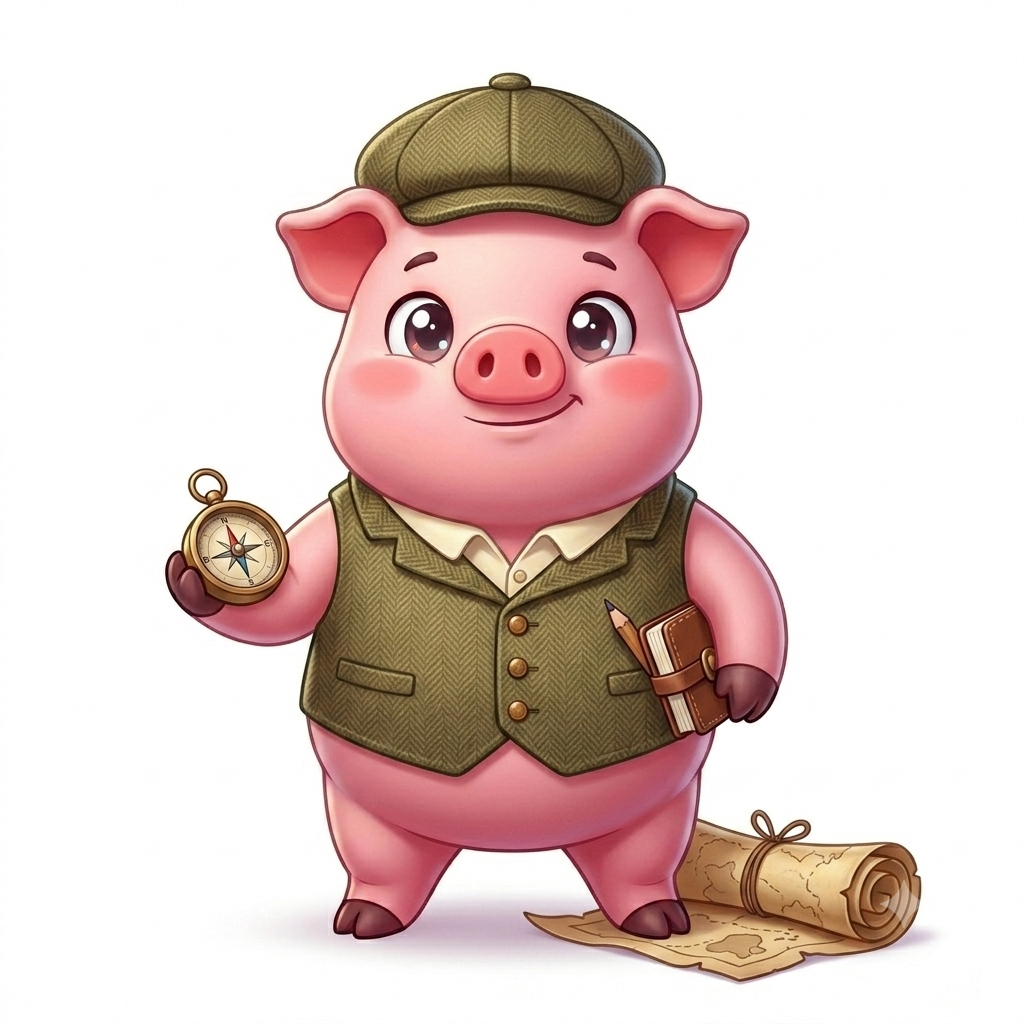
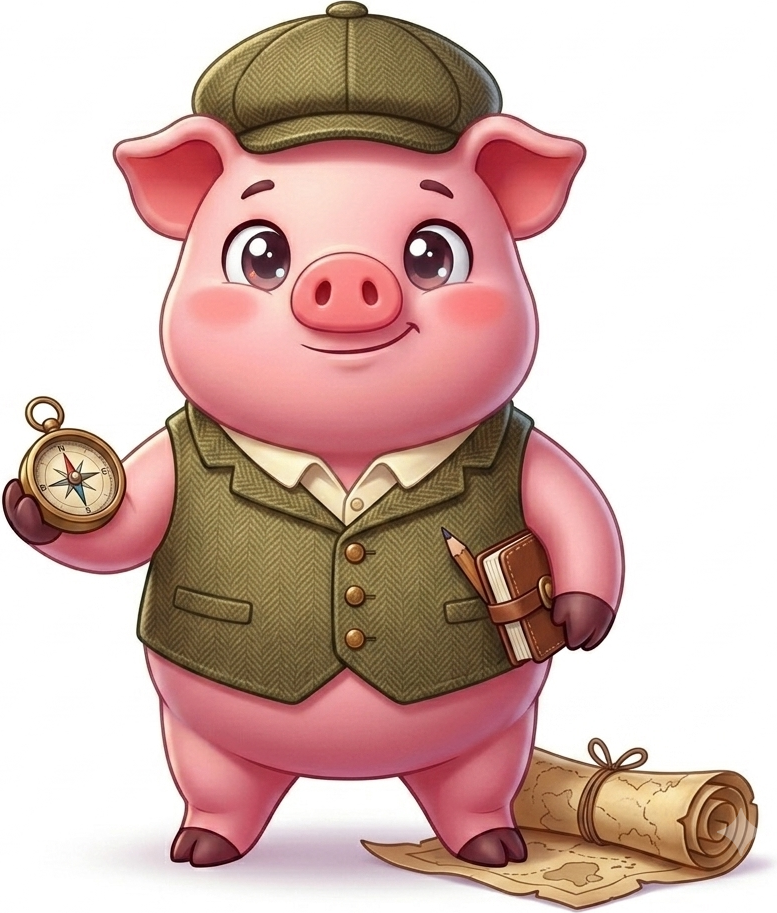
Ajustes de consistencia visual: tamaños de chanchos, planetas, brillo y fondos nuevos
- Recorta pig_economia y pig_historia para que los 4 chanchos de la home tengan el mismo tamaño aparente.
- Planetas del hero: saca la animación de flotar (solo queda el giro al pasar el mouse) y los acerca más al centro.
- Aumenta el brillo del fondo del hero del blog.
- Unifica la altura (en vez de ancho) de los 7 personajes que asoman en las tarjetas del blog, para que se vean del mismo tamaño entre sí.
- Saca la animación de flotar de los personajes en el header de los 8 artículos (quedan quietos).
- Recentra el fondo de Mitos para que se vea al detective, tanto en la tarjeta como en el artículo.
- Nuevos fondos para los artículos de Cripto, Ahorro (fondo de emergencia) y Crisis (burbujas y crashes).

diff --git a/docs/blog/index.html b/docs/blog/index.html
@@ -43,7 +43,7 @@
   <div style="display:flex;justify-content:center;padding:72px 40px 40px;">
     <div style="position:relative;width:100%;max-width:1160px;">
       <div class="obol-card" style="position:relative;border-radius:32px;overflow:hidden;min-height:380px;background:#16213e;box-shadow:0 30px 60px -20px rgba(10,15,30,.5);">
-        <div style="position:absolute;inset:0;background-image:url('./assets/bg_blog_hero.jpg');background-size:cover;background-position:center 40%;opacity:.55;"></div>
+        <div style="position:absolute;inset:0;background-image:url('./assets/bg_blog_hero.jpg');background-size:cover;background-position:center 40%;opacity:.8;"></div>
         <div style="position:absolute;inset:0;background:linear-gradient(100deg,rgba(16,25,50,.94) 0%,rgba(16,25,50,.86) 46%,rgba(16,25,50,.55) 68%,rgba(16,25,50,.2) 100%);"></div>
         <div style="position:relative;padding:56px 60px;max-width:600px;display:flex;flex-direction:column;gap:20px;">
           <span style="display:inline-flex;align-items:center;align-self:flex-start;font-family:'Fredoka',sans-serif;font-weight:600;font-size:12px;letter-spacing:.14em;color:#fff;background:rgba(255,255,255,.14);border:1px solid rgba(255,255,255,.24);padding:7px 16px;border-radius:999px;text-transform:uppercase;">Blog de finanzas y economía</span>
@@ -99,12 +99,12 @@
               <span style="font-weight:700;font-size:12px;color:rgba(255,255,255,.68);">Por El Griego</span>
             </div>
           </div>
-          <img src="./assets/char-griego.png" alt="El Griego" style="position:absolute;right:-10px;bottom:-14px;width:158px;height:auto;pointer-events:none;filter:drop-shadow(0 14px 16px rgba(15,8,4,.4));z-index:3;">
+          <img src="./assets/char-griego.png" alt="El Griego" style="position:absolute;right:-10px;bottom:-14px;height:210px;width:auto;pointer-events:none;filter:drop-shadow(0 14px 16px rgba(15,8,4,.4));z-index:3;">
         </a>
 
         <a href="./articulos/mitos-que-cuestan-caro.html" style="display:block;position:relative;">
           <div class="obol-card" style="position:relative;border-radius:24px;overflow:hidden;height:250px;background:#2c1e3f;box-shadow:0 18px 36px -16px rgba(44,30,63,.5);">
-            <div style="position:absolute;inset:0;background-image:url('./assets/bg_mitos_hero.jpg');background-size:cover;background-position:center 45%;"></div>
+            <div style="position:absolute;inset:0;background-image:url('./assets/bg_mitos_hero.jpg');background-size:cover;background-position:22% 55%;"></div>
             <div style="position:absolute;inset:0;background:linear-gradient(100deg,rgba(44,30,63,.88) 0%,rgba(44,30,63,.6) 48%,rgba(44,30,63,.18) 72%,rgba(44,30,63,0) 100%);"></div>
             <div style="position:relative;padding:28px 30px;max-width:66%;height:100%;display:flex;flex-direction:column;justify-content:center;gap:10px;">
               <span style="display:inline-flex;align-self:flex-start;font-family:'Fredoka',sans-serif;font-weight:600;font-size:11px;letter-spacing:.1em;color:#fff;background:rgba(255,255,255,.16);border:1px solid rgba(255,255,255,.26);padding:5px 12px;border-radius:999px;text-transform:uppercase;">Mitos</span>
@@ -112,7 +112,7 @@
               <span style="font-weight:700;font-size:12px;color:rgba(255,255,255,.68);">Por el Cazador de Mitos</span>
             </div>
           </div>
-          <img src="./assets/char-mito.png" alt="Cazador de Mitos" style="position:absolute;right:-10px;bottom:-14px;width:158px;height:auto;pointer-events:none;filter:drop-shadow(0 14px 16px rgba(10,4,16,.4));z-index:3;">
+          <img src="./assets/char-mito.png" alt="Cazador de Mitos" style="position:absolute;right:-10px;bottom:-14px;height:210px;width:auto;pointer-events:none;filter:drop-shadow(0 14px 16px rgba(10,4,16,.4));z-index:3;">
         </a>
 
         <a href="./articulos/acciones-bonos-cedears.html" style="display:block;position:relative;">
@@ -125,7 +125,7 @@
               <span style="font-weight:700;font-size:12px;color:rgba(255,255,255,.68);">Por la Inversora Pro</span>
             </div>
           </div>
-          <img src="./assets/char-inversor-pro.png" alt="Inversora Pro" style="position:absolute;right:-10px;bottom:-14px;width:158px;height:auto;pointer-events:none;filter:drop-shadow(0 14px 16px rgba(4,12,10,.4));z-index:3;">
+          <img src="./assets/char-inversor-pro.png" alt="Inversora Pro" style="position:absolute;right:-10px;bottom:-14px;height:210px;width:auto;pointer-events:none;filter:drop-shadow(0 14px 16px rgba(4,12,10,.4));z-index:3;">
         </a>
 
         <a href="./articulos/fondo-de-emergencia.html" style="display:block;position:relative;">
@@ -138,7 +138,7 @@
               <span style="font-weight:700;font-size:12px;color:rgba(255,255,255,.68);">Por la Guardiana del Ahorro</span>
             </div>
           </div>
-          <img src="./assets/char-ahorro.png" alt="Guardiana del Ahorro" style="position:absolute;right:-10px;bottom:-14px;width:158px;height:auto;pointer-events:none;filter:drop-shadow(0 14px 16px rgba(6,14,10,.4));z-index:3;">
+          <img src="./assets/char-ahorro.png" alt="Guardiana del Ahorro" style="position:absolute;right:-10px;bottom:-14px;height:210px;width:auto;pointer-events:none;filter:drop-shadow(0 14px 16px rgba(6,14,10,.4));z-index:3;">
         </a>
 
         <a href="./articulos/burbujas-crashes-panicos.html" style="display:block;position:relative;">
@@ -151,7 +151,7 @@
               <span style="font-weight:700;font-size:12px;color:rgba(255,255,255,.68);">Por el Domador de Tormentas</span>
             </div>
           </div>
-          <img src="./assets/char-domador.png" alt="Domador de Tormentas" style="position:absolute;right:-10px;bottom:-14px;width:158px;height:auto;pointer-events:none;filter:drop-shadow(0 14px 16px rgba(14,6,4,.4));z-index:3;">
+          <img src="./assets/char-domador.png" alt="Domador de Tormentas" style="position:absolute;right:-10px;bottom:-14px;height:210px;width:auto;pointer-events:none;filter:drop-shadow(0 14px 16px rgba(14,6,4,.4));z-index:3;">
         </a>
 
         <a href="./articulos/bitcoin-en-criollo.html" style="display:block;position:relative;">
@@ -164,7 +164,7 @@
               <span style="font-weight:700;font-size:12px;color:rgba(255,255,255,.68);">Por el Broker</span>
             </div>
           </div>
-          <img src="./assets/char-broker.png" alt="Broker" style="position:absolute;right:-10px;bottom:-14px;width:158px;height:auto;pointer-events:none;filter:drop-shadow(0 14px 16px rgba(4,10,14,.4));z-index:3;">
+          <img src="./assets/char-broker.png" alt="Broker" style="position:absolute;right:-10px;bottom:-14px;height:210px;width:auto;pointer-events:none;filter:drop-shadow(0 14px 16px rgba(4,10,14,.4));z-index:3;">
         </a>
 
         <a href="./articulos/tarjeta-de-credito-mal-usada.html" style="display:block;position:relative;">
@@ -177,7 +177,7 @@
               <span style="font-weight:700;font-size:12px;color:rgba(255,255,255,.68);">Por el Ciudadano</span>
             </div>
           </div>
-          <img src="./assets/char-ciudadano.png" alt="Ciudadano" style="position:absolute;right:-6px;bottom:-14px;width:150px;height:auto;pointer-events:none;filter:drop-shadow(0 14px 16px rgba(6,8,20,.4));z-index:3;">
+          <img src="./assets/char-ciudadano.png" alt="Ciudadano" style="position:absolute;right:-10px;bottom:-14px;height:210px;width:auto;pointer-events:none;filter:drop-shadow(0 14px 16px rgba(6,8,20,.4));z-index:3;">
         </a>
 
       </div>

diff --git a/docs/aprende.html b/docs/aprende.html
@@ -57,7 +57,7 @@
     75%  { transform: perspective(900px) rotateX(6deg) rotateY(-36deg) scale(.985); }
     100% { transform: perspective(900px) rotateX(4deg) rotateY(0deg) scale(1); }
   }
-  .obol-planet { position: absolute; opacity: 0; z-index: 1; animation: obolFadeIn 1.2s ease .25s forwards, obolFloat 6s ease-in-out 1.4s infinite; }
+  .obol-planet { position: absolute; opacity: 0; z-index: 1; animation: obolFadeIn 1.2s ease .25s forwards; }
   .obol-planet > span { display: block; transition: transform .4s cubic-bezier(.22,.61,.36,1); }
   .obol-planet:hover > span { transform: scale(1.05); }
   .obol-planet img { display: block; width: 100%; height: auto; }
@@ -96,16 +96,16 @@
     <div style="position:absolute;inset:0;background-image:radial-gradient(circle at 82% 18%,rgba(74,124,224,.26),transparent 55%);pointer-events:none;"></div>
     <div style="position:absolute;inset:0;background-image:linear-gradient(rgba(255,255,255,.035) 1px,transparent 1px),linear-gradient(90deg,rgba(255,255,255,.035) 1px,transparent 1px);background-size:44px 44px;-webkit-mask-image:linear-gradient(180deg,rgba(0,0,0,.85),transparent 82%);mask-image:linear-gradient(180deg,rgba(0,0,0,.85),transparent 82%);pointer-events:none;"></div>
 
-    <div class="obol-planet" aria-hidden="true" style="left:4%;top:16%;width:clamp(150px,15vw,225px);">
+    <div class="obol-planet" aria-hidden="true" style="left:9%;top:16%;width:clamp(150px,15vw,225px);">
       <span><img src="./assets/aprende2/planet_ahorro.png" alt="Mundo del ahorro" style="filter:drop-shadow(0 26px 30px rgba(4,10,26,.5)) drop-shadow(0 0 46px rgba(94,196,160,.22));"></span>
     </div>
-    <div class="obol-planet" aria-hidden="true" style="right:4%;top:16%;width:clamp(150px,15vw,225px);animation-delay:.3s;">
+    <div class="obol-planet" aria-hidden="true" style="right:9%;top:16%;width:clamp(150px,15vw,225px);animation-delay:.3s;">
       <span><img src="./assets/aprende2/planet_mercados.png" alt="Mundo de mercados e inversiones" style="filter:drop-shadow(0 26px 30px rgba(4,10,26,.5)) drop-shadow(0 0 48px rgba(150,110,235,.28));"></span>
     </div>
-    <div class="obol-planet" aria-hidden="true" style="left:4%;top:52%;width:clamp(150px,15vw,225px);animation-delay:.55s;">
+    <div class="obol-planet" aria-hidden="true" style="left:9%;top:52%;width:clamp(150px,15vw,225px);animation-delay:.55s;">
       <span><img src="./assets/aprende2/planet_argentina.png" alt="Mundo de la economía argentina" style="filter:drop-shadow(0 26px 30px rgba(4,10,26,.5)) drop-shadow(0 0 44px rgba(120,180,235,.22));"></span>
     </div>
-    <div class="obol-planet" aria-hidden="true" style="right:4%;top:52%;width:clamp(150px,15vw,225px);animation-delay:.15s;">
+    <div class="obol-planet" aria-hidden="true" style="right:9%;top:52%;width:clamp(150px,15vw,225px);animation-delay:.15s;">
       <span><img src="./assets/aprende2/planet_conocimiento.png" alt="Mundo del conocimiento" style="filter:drop-shadow(0 26px 30px rgba(4,10,26,.5)) drop-shadow(0 0 46px rgba(255,150,80,.26));"></span>
     </div>
 

diff --git a/docs/blog/articulos/burbujas-crashes-panicos.html b/docs/blog/articulos/burbujas-crashes-panicos.html
@@ -33,7 +33,7 @@
 
   <!-- HERO -->
   <div style="position:relative;overflow:hidden;background:var(--hero);padding:54px 34px 128px;">
-    <div style="position:absolute;inset:0;background-image:url('../assets/bg_crisis_ciclos.jpg');background-size:cover;background-position:center 38%;opacity:.35;"></div>
+    <div style="position:absolute;inset:0;background-image:url('../assets/bg_crisis_hero.jpg');background-size:cover;background-position:center 40%;opacity:.35;"></div>
     <div style="position:absolute;inset:0;background:linear-gradient(100deg,var(--hero) 0%,var(--hero) 40%,rgba(0,0,0,0) 100%);"></div>
     <div style="position:absolute;right:-30px;top:-30px;width:320px;height:320px;border-radius:999px;background:radial-gradient(circle,rgba(255,255,255,.14),transparent 70%);"></div>
     <div style="position:relative;max-width:1120px;margin:0 auto;display:flex;align-items:center;gap:36px;">
@@ -56,7 +56,7 @@
       </div>
       <div class="obol-hero-pig" style="position:relative;flex:none;width:290px;display:grid;place-items:center;">
         <div style="position:absolute;width:220px;height:220px;border-radius:999px;background:radial-gradient(circle,rgba(255,255,255,.16),transparent 68%);"></div>
-        <img src="../assets/char-domador.png" alt="El Domador de Tormentas" style="position:relative;width:270px;height:auto;filter:drop-shadow(0 22px 30px rgba(4,14,20,.55));animation:obolRise .8s cubic-bezier(.22,.61,.36,1) .35s both, obolFloat 7s ease-in-out 1.2s infinite;">
+        <img src="../assets/char-domador.png" alt="El Domador de Tormentas" style="position:relative;width:270px;height:auto;filter:drop-shadow(0 22px 30px rgba(4,14,20,.55));animation:obolRise .8s cubic-bezier(.22,.61,.36,1) .35s both;">
       </div>
     </div>
     <div style="position:absolute;left:0;right:0;bottom:-1px;height:66px;background:#eef1f7;clip-path:polygon(0 55%,100% 0,100% 100%,0 100%);"></div>

diff --git a/docs/blog/articulos/fondo-de-emergencia.html b/docs/blog/articulos/fondo-de-emergencia.html
@@ -33,7 +33,7 @@
 
   <!-- HERO -->
   <div style="position:relative;overflow:hidden;background:var(--hero);padding:54px 34px 128px;">
-    <div style="position:absolute;inset:0;background-image:url('../assets/bg_ahorro.jpg');background-size:cover;background-position:center 38%;opacity:.35;"></div>
+    <div style="position:absolute;inset:0;background-image:url('../assets/bg_ahorro_hero.jpg');background-size:cover;background-position:center 42%;opacity:.35;"></div>
     <div style="position:absolute;inset:0;background:linear-gradient(100deg,var(--hero) 0%,var(--hero) 40%,rgba(0,0,0,0) 100%);"></div>
     <div style="position:absolute;right:-30px;top:-30px;width:320px;height:320px;border-radius:999px;background:radial-gradient(circle,rgba(255,255,255,.14),transparent 70%);"></div>
     <div style="position:relative;max-width:1120px;margin:0 auto;display:flex;align-items:center;gap:36px;">
@@ -56,7 +56,7 @@
       </div>
       <div class="obol-hero-pig" style="position:relative;flex:none;width:290px;display:grid;place-items:center;">
         <div style="position:absolute;width:220px;height:220px;border-radius:999px;background:radial-gradient(circle,rgba(255,255,255,.16),transparent 68%);"></div>
-        <img src="../assets/char-ahorro.png" alt="La Guardiana del Ahorro" style="position:relative;width:270px;height:auto;filter:drop-shadow(0 22px 30px rgba(4,14,20,.55));animation:obolRise .8s cubic-bezier(.22,.61,.36,1) .35s both, obolFloat 7s ease-in-out 1.2s infinite;">
+        <img src="../assets/char-ahorro.png" alt="La Guardiana del Ahorro" style="position:relative;width:270px;height:auto;filter:drop-shadow(0 22px 30px rgba(4,14,20,.55));animation:obolRise .8s cubic-bezier(.22,.61,.36,1) .35s both;">
       </div>
     </div>
     <div style="position:absolute;left:0;right:0;bottom:-1px;height:66px;background:#eef1f7;clip-path:polygon(0 55%,100% 0,100% 100%,0 100%);"></div>

diff --git a/docs/blog/articulos/mitos-que-cuestan-caro.html b/docs/blog/articulos/mitos-que-cuestan-caro.html
@@ -33,7 +33,7 @@
 
   <!-- HERO -->
   <div style="position:relative;overflow:hidden;background:var(--hero);padding:54px 34px 128px;">
-    <div style="position:absolute;inset:0;background-image:url('../assets/bg_mitos_hero.jpg');background-size:cover;background-position:center 38%;opacity:.35;"></div>
+    <div style="position:absolute;inset:0;background-image:url('../assets/bg_mitos_hero.jpg');background-size:cover;background-position:22% 40%;opacity:.35;"></div>
     <div style="position:absolute;inset:0;background:linear-gradient(100deg,var(--hero) 0%,var(--hero) 40%,rgba(0,0,0,0) 100%);"></div>
     <div style="position:absolute;right:-30px;top:-30px;width:320px;height:320px;border-radius:999px;background:radial-gradient(circle,rgba(255,255,255,.14),transparent 70%);"></div>
     <div style="position:relative;max-width:1120px;margin:0 auto;display:flex;align-items:center;gap:36px;">
@@ -56,7 +56,7 @@
       </div>
       <div class="obol-hero-pig" style="position:relative;flex:none;width:290px;display:grid;place-items:center;">
         <div style="position:absolute;width:220px;height:220px;border-radius:999px;background:radial-gradient(circle,rgba(255,255,255,.16),transparent 68%);"></div>
-        <img src="../assets/char-mito.png" alt="El Cazador de Mitos" style="position:relative;width:270px;height:auto;filter:drop-shadow(0 22px 30px rgba(4,14,20,.55));animation:obolRise .8s cubic-bezier(.22,.61,.36,1) .35s both, obolFloat 7s ease-in-out 1.2s infinite;">
+        <img src="../assets/char-mito.png" alt="El Cazador de Mitos" style="position:relative;width:270px;height:auto;filter:drop-shadow(0 22px 30px rgba(4,14,20,.55));animation:obolRise .8s cubic-bezier(.22,.61,.36,1) .35s both;">
       </div>
     </div>
     <div style="position:absolute;left:0;right:0;bottom:-1px;height:66px;background:#eef1f7;clip-path:polygon(0 55%,100% 0,100% 100%,0 100%);"></div>

diff --git a/docs/blog/articulos/bitcoin-en-criollo.html b/docs/blog/articulos/bitcoin-en-criollo.html
@@ -33,7 +33,7 @@
 
   <!-- HERO -->
   <div style="position:relative;overflow:hidden;background:var(--hero);padding:54px 34px 128px;">
-    <div style="position:absolute;inset:0;background-image:url('../assets/bg_criptomonedas.jpg');background-size:cover;background-position:center 38%;opacity:.35;"></div>
+    <div style="position:absolute;inset:0;background-image:url('../assets/bg_cripto_hero.jpg');background-size:cover;background-position:center 45%;opacity:.35;"></div>
     <div style="position:absolute;inset:0;background:linear-gradient(100deg,var(--hero) 0%,var(--hero) 40%,rgba(0,0,0,0) 100%);"></div>
     <div style="position:absolute;right:-30px;top:-30px;width:320px;height:320px;border-radius:999px;background:radial-gradient(circle,rgba(255,255,255,.14),transparent 70%);"></div>
     <div style="position:relative;max-width:1120px;margin:0 auto;display:flex;align-items:center;gap:36px;">
@@ -56,7 +56,7 @@
       </div>
       <div class="obol-hero-pig" style="position:relative;flex:none;width:290px;display:grid;place-items:center;">
         <div style="position:absolute;width:220px;height:220px;border-radius:999px;background:radial-gradient(circle,rgba(255,255,255,.16),transparent 68%);"></div>
-        <img src="../assets/char-broker.png" alt="El Broker" style="position:relative;width:270px;height:auto;filter:drop-shadow(0 22px 30px rgba(4,14,20,.55));animation:obolRise .8s cubic-bezier(.22,.61,.36,1) .35s both, obolFloat 7s ease-in-out 1.2s infinite;">
+        <img src="../assets/char-broker.png" alt="El Broker" style="position:relative;width:270px;height:auto;filter:drop-shadow(0 22px 30px rgba(4,14,20,.55));animation:obolRise .8s cubic-bezier(.22,.61,.36,1) .35s both;">
       </div>
     </div>
     <div style="position:absolute;left:0;right:0;bottom:-1px;height:66px;background:#eef1f7;clip-path:polygon(0 55%,100% 0,100% 100%,0 100%);"></div>

diff --git a/docs/blog/articulos/acciones-bonos-cedears.html b/docs/blog/articulos/acciones-bonos-cedears.html
@@ -56,7 +56,7 @@
       </div>
       <div class="obol-hero-pig" style="position:relative;flex:none;width:290px;display:grid;place-items:center;">
         <div style="position:absolute;width:220px;height:220px;border-radius:999px;background:radial-gradient(circle,rgba(255,255,255,.16),transparent 68%);"></div>
-        <img src="../assets/char-inversor-pro.png" alt="La Inversora Pro" style="position:relative;width:270px;height:auto;filter:drop-shadow(0 22px 30px rgba(4,14,20,.55));animation:obolRise .8s cubic-bezier(.22,.61,.36,1) .35s both, obolFloat 7s ease-in-out 1.2s infinite;">
+        <img src="../assets/char-inversor-pro.png" alt="La Inversora Pro" style="position:relative;width:270px;height:auto;filter:drop-shadow(0 22px 30px rgba(4,14,20,.55));animation:obolRise .8s cubic-bezier(.22,.61,.36,1) .35s both;">
       </div>
     </div>
     <div style="position:absolute;left:0;right:0;bottom:-1px;height:66px;background:#eef1f7;clip-path:polygon(0 55%,100% 0,100% 100%,0 100%);"></div>

diff --git a/docs/blog/articulos/por-que-argentina-tiene-tanta-inflacion.html b/docs/blog/articulos/por-que-argentina-tiene-tanta-inflacion.html
@@ -56,7 +56,7 @@
       </div>
       <div class="obol-hero-pig" style="position:relative;flex:none;width:290px;display:grid;place-items:center;">
         <div style="position:absolute;width:220px;height:220px;border-radius:999px;background:radial-gradient(circle,rgba(255,255,255,.16),transparent 68%);"></div>
-        <img src="../assets/char-analista.png" alt="El Analista de Datos" style="position:relative;width:270px;height:auto;filter:drop-shadow(0 22px 30px rgba(4,14,20,.55));animation:obolRise .8s cubic-bezier(.22,.61,.36,1) .35s both, obolFloat 7s ease-in-out 1.2s infinite;">
+        <img src="../assets/char-analista.png" alt="El Analista de Datos" style="position:relative;width:270px;height:auto;filter:drop-shadow(0 22px 30px rgba(4,14,20,.55));animation:obolRise .8s cubic-bezier(.22,.61,.36,1) .35s both;">
       </div>
     </div>
     <div style="position:absolute;left:0;right:0;bottom:-1px;height:66px;background:#eef1f7;clip-path:polygon(0 55%,100% 0,100% 100%,0 100%);"></div>

diff --git a/docs/blog/articulos/tarjeta-de-credito-mal-usada.html b/docs/blog/articulos/tarjeta-de-credito-mal-usada.html
@@ -56,7 +56,7 @@
       </div>
       <div class="obol-hero-pig" style="position:relative;flex:none;width:290px;display:grid;place-items:center;">
         <div style="position:absolute;width:220px;height:220px;border-radius:999px;background:radial-gradient(circle,rgba(255,255,255,.16),transparent 68%);"></div>
-        <img src="../assets/char-ciudadano.png" alt="El Ciudadano" style="position:relative;width:270px;height:auto;filter:drop-shadow(0 22px 30px rgba(4,14,20,.55));animation:obolRise .8s cubic-bezier(.22,.61,.36,1) .35s both, obolFloat 7s ease-in-out 1.2s infinite;">
+        <img src="../assets/char-ciudadano.png" alt="El Ciudadano" style="position:relative;width:270px;height:auto;filter:drop-shadow(0 22px 30px rgba(4,14,20,.55));animation:obolRise .8s cubic-bezier(.22,.61,.36,1) .35s both;">
       </div>
     </div>
     <div style="position:absolute;left:0;right:0;bottom:-1px;height:66px;background:#eef1f7;clip-path:polygon(0 55%,100% 0,100% 100%,0 100%);"></div>

diff --git a/docs/blog/articulos/de-monedas-a-bitcoin.html b/docs/blog/articulos/de-monedas-a-bitcoin.html
@@ -56,7 +56,7 @@
       </div>
       <div class="obol-hero-pig" style="position:relative;flex:none;width:290px;display:grid;place-items:center;">
         <div style="position:absolute;width:220px;height:220px;border-radius:999px;background:radial-gradient(circle,rgba(255,255,255,.16),transparent 68%);"></div>
-        <img src="../assets/char-griego.png" alt="El Griego" style="position:relative;width:270px;height:auto;filter:drop-shadow(0 22px 30px rgba(4,14,20,.55));animation:obolRise .8s cubic-bezier(.22,.61,.36,1) .35s both, obolFloat 7s ease-in-out 1.2s infinite;">
+        <img src="../assets/char-griego.png" alt="El Griego" style="position:relative;width:270px;height:auto;filter:drop-shadow(0 22px 30px rgba(4,14,20,.55));animation:obolRise .8s cubic-bezier(.22,.61,.36,1) .35s both;">
       </div>
     </div>
     <div style="position:absolute;left:0;right:0;bottom:-1px;height:66px;background:#eef1f7;clip-path:polygon(0 55%,100% 0,100% 100%,0 100%);"></div>
